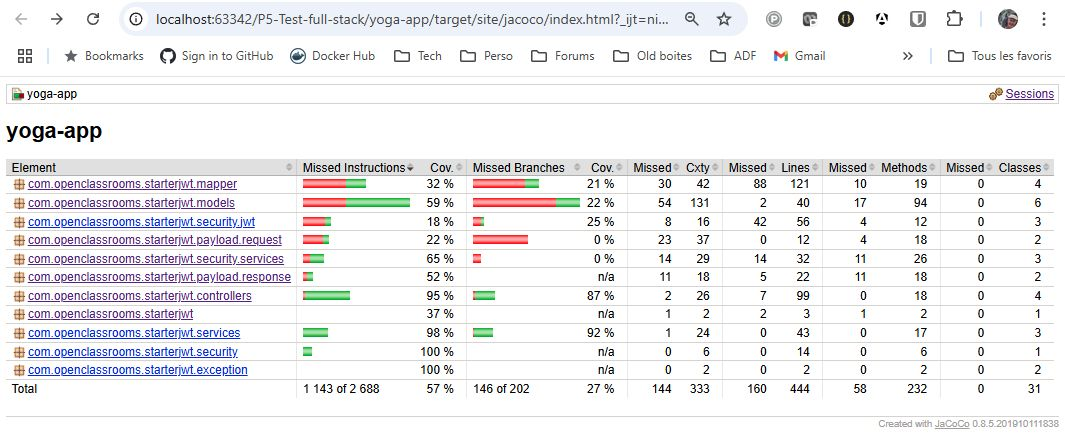
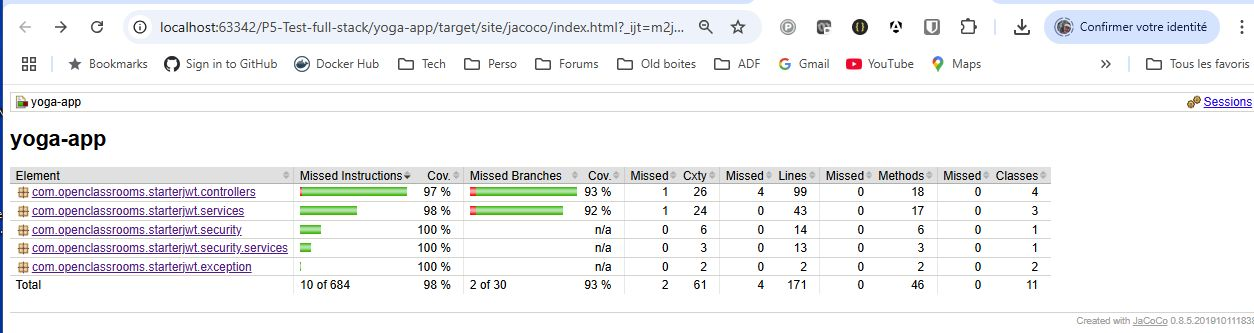
Finalisation du README.md. Nettoyage et retrait des classes sans intérêt pour les Tests côté back (couverture)

diff --git a/README.md b/README.md
@@ -331,11 +331,15 @@ Actions pour le profil non-administrateur
    ```bash
    cd back
    ```
-2. Démarrez les tests unitaires et d'intégration avec Maven :
+2. Démarrez les tests unitaires avec Maven (tests rapides basés sur des mocks) :
    ```bash
    mvn clean test
    ```
-3. Consultez le rapport de couverture généré par JaCoCo :
+3. ou bien, démarrez <u>en plus</u> les tests d'intégration systèmes avec Maven (tests suffixés par IT) :
+   ```bash
+   mvn clean validate
+   ```
+4. Consultez le rapport de couverture généré par JaCoCo :
    ```
    target/site/jacoco/index.html
    ```
@@ -343,21 +347,19 @@ Actions pour le profil non-administrateur
    - Rapport global (DTO exclus) : 
    ![TU-TI-backend-jacoco-1.png](assets/docs/images/TU-TI-backend-jacoco-1.png)
 
-Les tests backend sont basés sur des mocks pour simuler les appels aux services et aux bases de données.
-Sur les services et les autres objets, j'ai réalisé essentiellement des tests unitaires.
-Sur les controllers, ce sont surtout des tests d'intégration du fait du besoin de bénéficier des facilités de 
-Spring Test pour la simulation du contexte de sécurité et des requêtes HTTP/controllers REST (MockMvc).
+Les tests backend sont basés sur des mocks pour simuler les appels aux services et aux bases de données
+d'une manière rapide.
+Sur les controllers, j'ai en plus réalisé des tests d'intégration systèmes (que j'aurais pu suffixer par SIT
+plutôt que IT) afin de mieux tester les interactions complètes avec les services et la sécurité.
+Afin d'éviter toute interférence avec la base de données de dev, j'ai défini spécifiquement pour les tests une base 
+mémoire H2 avec dialecte mysql. Si l'application avait été plus complexe, j'aurais opté pour un TestContainer mysql
+mais dans le cas présent, la base H2 fonctionne bien et est plus rapide.
 
 Comme j'ai fait en sorte qu'**optionnellement mes tests e2e puissent travailler avec la base de données réelle** 
-(avec données de test), j'ai pensé que faire des tests d'intégration sur les mappers par exemple pouvaient être 
-redondants.
+(avec données de test), ceci permet de valider totalement les interactions systèmes.
 
-Les tests d'intégration du backend Spring s'exécutent spécfigiquement sur une base H2 avec dialecte MySQL pour
-éviter toute interférence avec la base de développement.
-
-Le taux de couverture global du back n'est pas à 80% mais en faire plus ne me parait pas utile puisque les 
-objets les plus sensibles (services et controllers) sont parfaitement couverts et que les tests e2e lorsque
-utilisés sur le vrai backend couvrent toute la chaine.
+Les objets les plus sensibles (services et controllers) sont parfaitement couverts, et les tests e2e, lorsque
+lancés sur le "vrai backend", permettent de couvrir toute la chaine.
 
 ---
 
